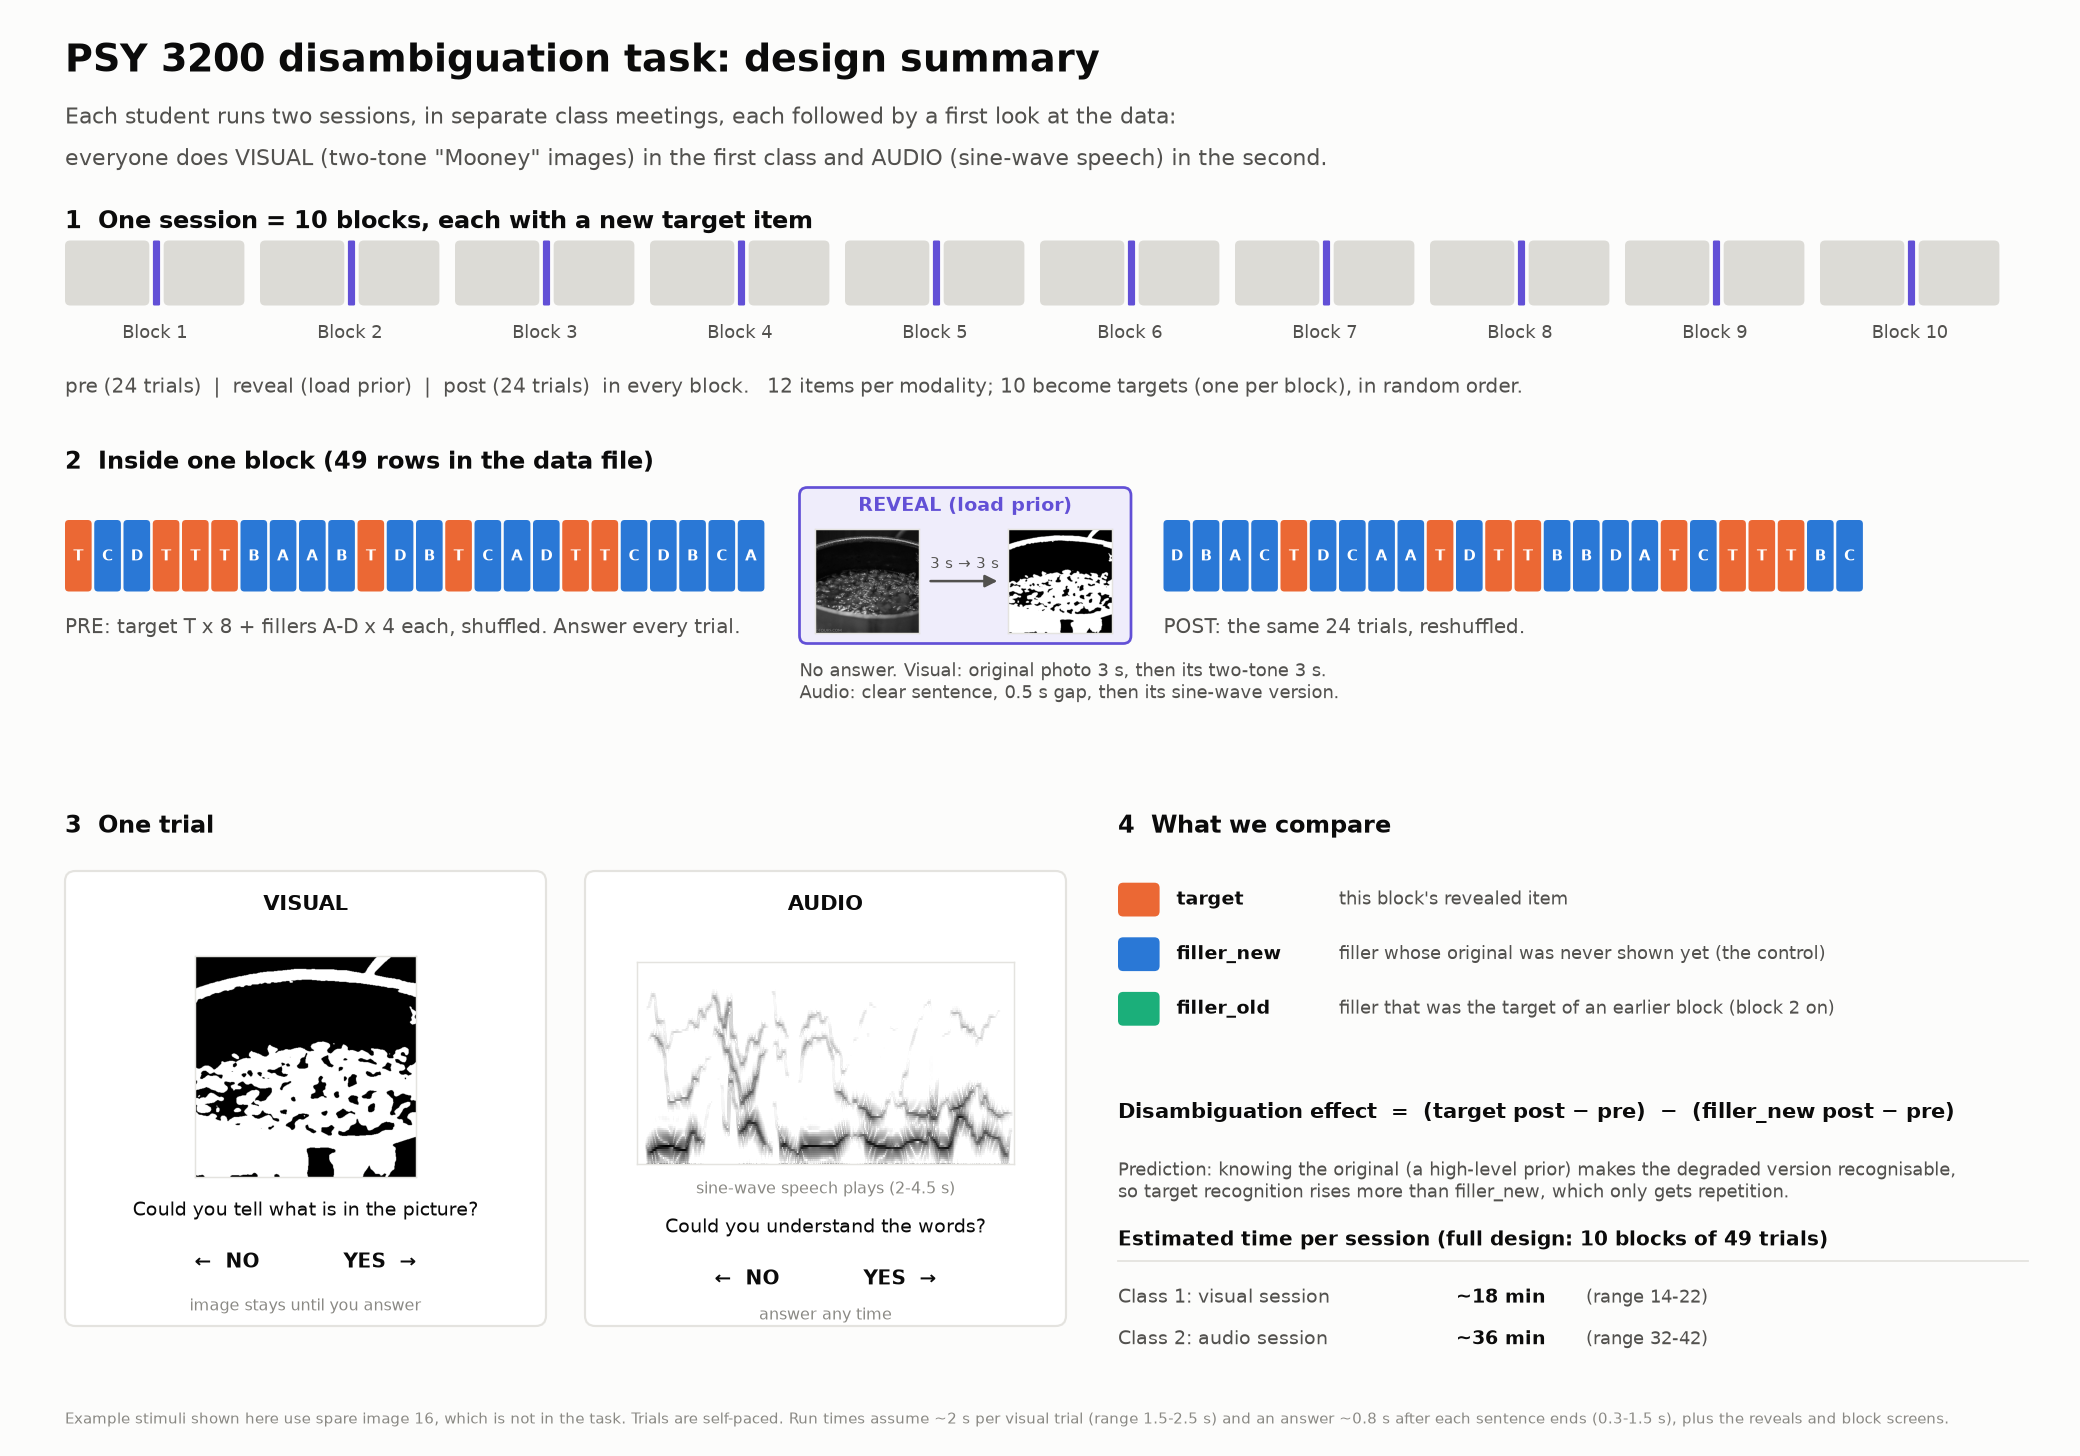
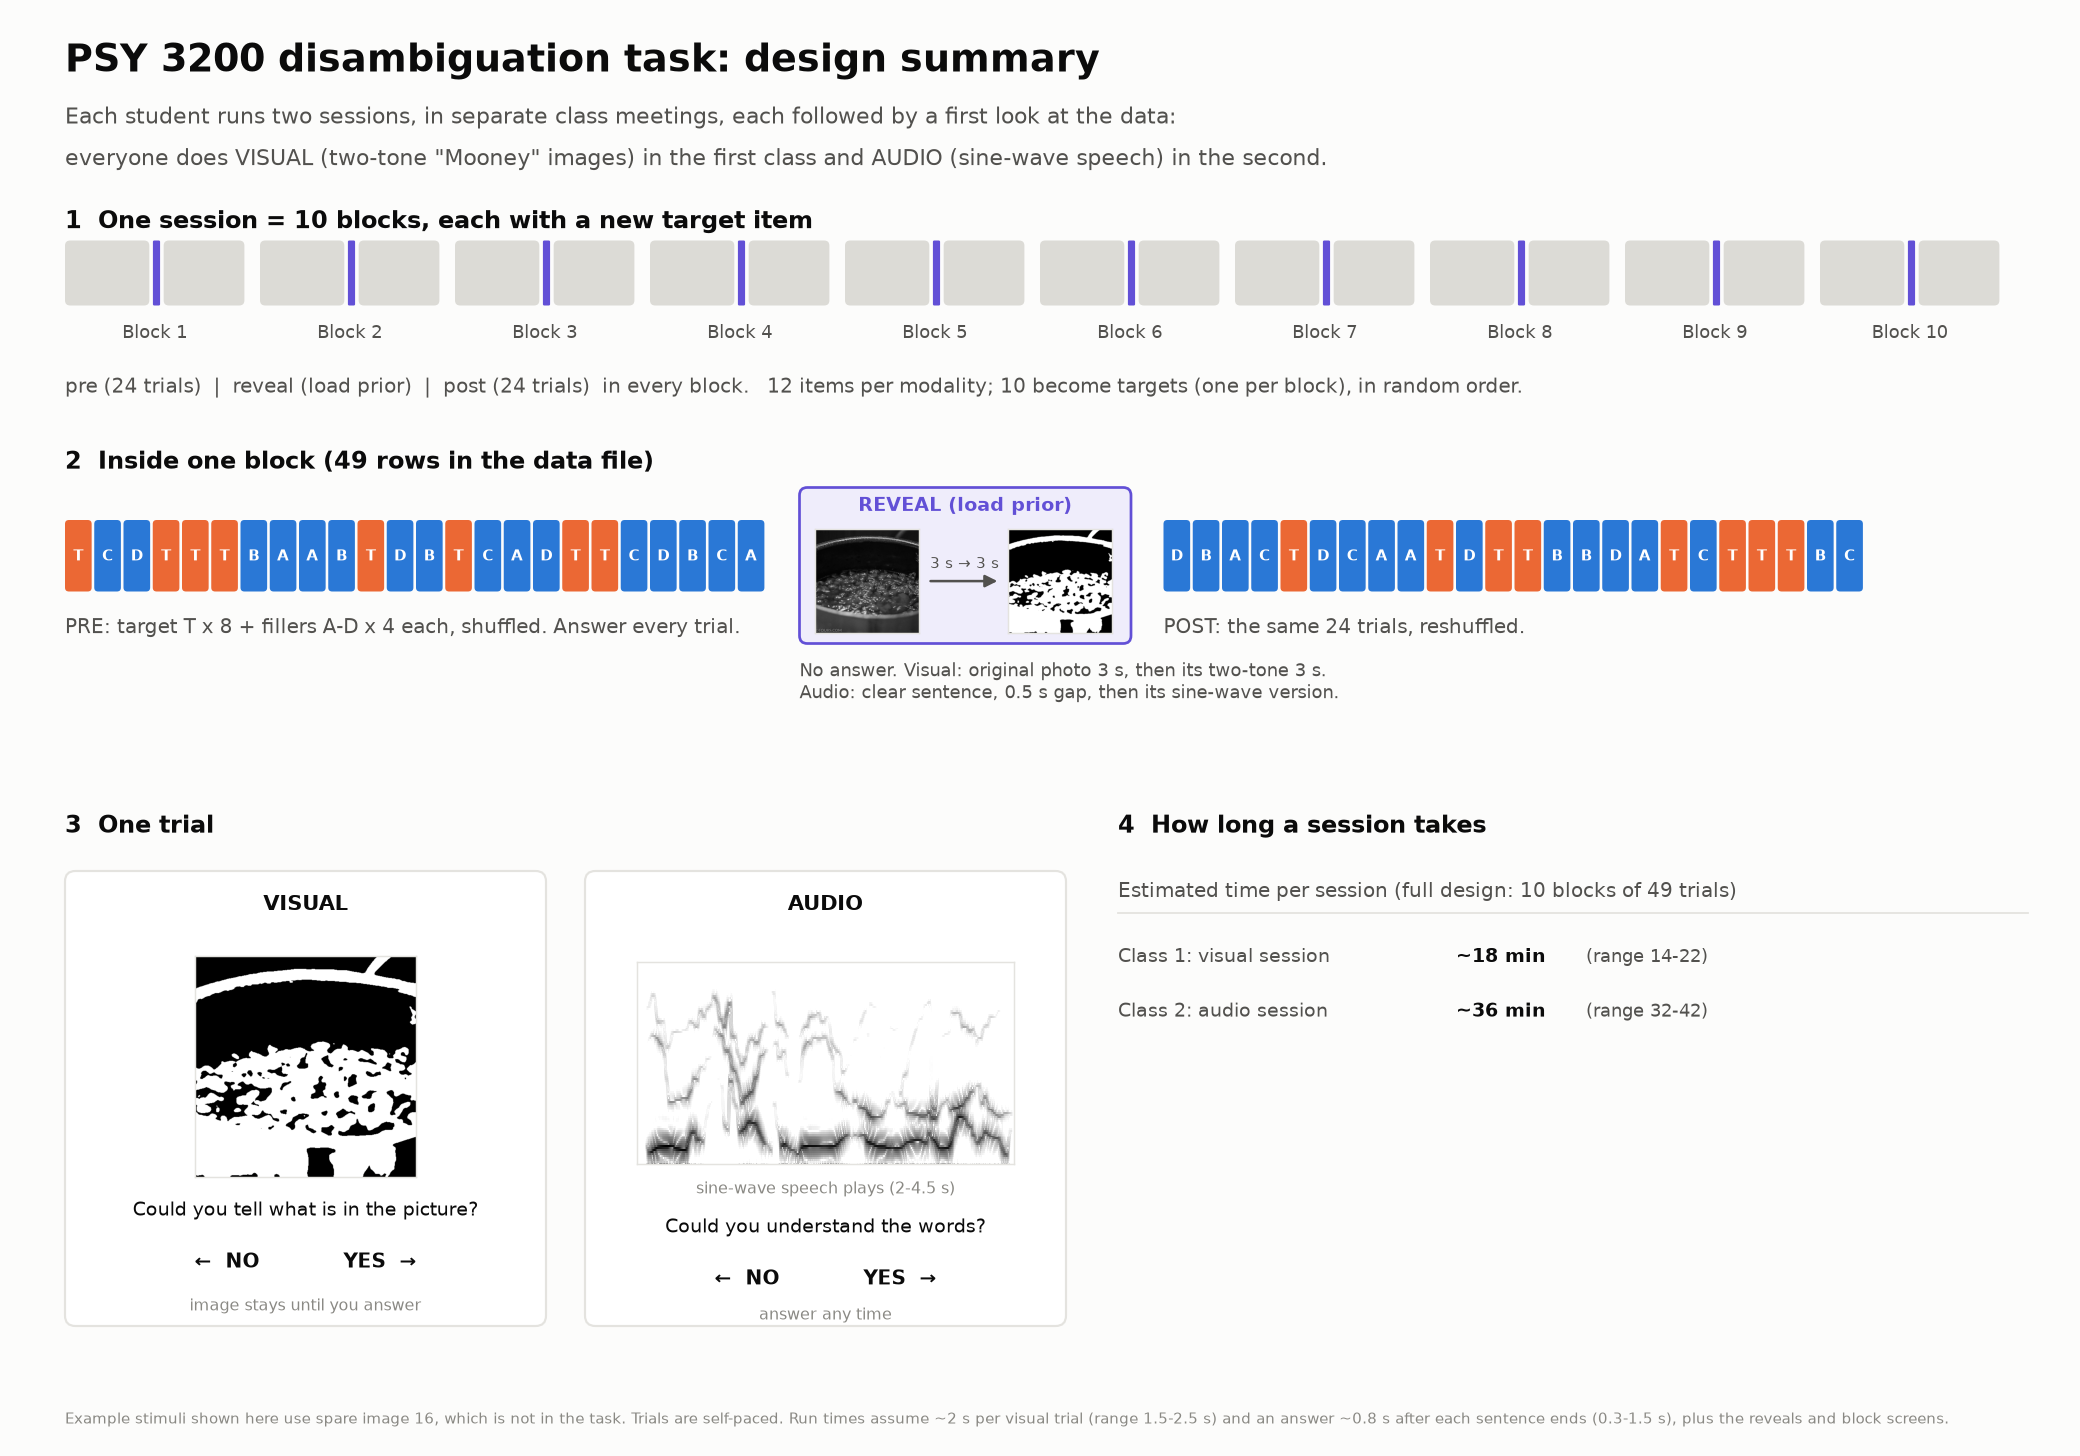
Take the planned comparison out of the design figure
Students design their own analysis, so the figure no longer shows which
conditions to compare, the disambiguation-effect formula or the prediction.
The run-time table moves into that space.

diff --git a/docs/make_design_figure.py b/docs/make_design_figure.py
@@ -164,28 +164,13 @@ def main():
     ax.text(6.35, 1.32, "←  NO            YES  →", ha="center", fontsize=11, color=INK, fontweight="bold")
     ax.text(6.35, 1.05, "answer any time", ha="center", fontsize=9, color=MUTED)
 
-    # 4. conditions + analysis
-    section(ax, 8.6, 4.75, "4  What we compare")
-    for k, (c, lab, desc) in enumerate([
-            (TARGET, "target", "this block's revealed item"),
-            (FILLER_NEW, "filler_new", "filler whose original was never shown yet (the control)"),
-            (FILLER_OLD, "filler_old", "filler that was the target of an earlier block (block 2 on)")]):
-        yy = 4.15 - k * 0.42
-        box(ax, 8.6, yy, 0.32, 0.26, c, r=0.04)
-        ax.text(9.05, yy + 0.13, lab, fontsize=10.5, color=INK, va="center", fontweight="bold")
-        ax.text(10.3, yy + 0.13, desc, fontsize=10, color=INK2, va="center")
-    ax.text(8.6, 2.6, "Disambiguation effect  =  (target post − pre)  −  (filler_new post − pre)",
-            fontsize=11.5, color=INK, fontweight="bold")
-    ax.text(8.6, 2.28, "Prediction: knowing the original (a high-level prior) makes the degraded version "
-            "recognisable,\nso target recognition rises more than filler_new, which only gets repetition.",
-            fontsize=10, color=INK2, va="top")
-
-    # 5. run time
-    ax.text(8.6, 1.62, "Estimated time per session (full design: 10 blocks of 49 trials)", fontsize=11,
-            color=INK, fontweight="bold")
-    ax.plot([8.6, 15.6], [1.5, 1.5], color=RULE, lw=1)
+    # 4. run time
+    section(ax, 8.6, 4.75, "4  How long a session takes")
+    ax.text(8.6, 4.3, "Estimated time per session (full design: 10 blocks of 49 trials)", fontsize=11,
+            color=INK2)
+    ax.plot([8.6, 15.6], [4.18, 4.18], color=RULE, lw=1)
     for k, (name, m, lo, hi) in enumerate(runtime_table()):
-        yy = 1.18 - k * 0.32
+        yy = 3.8 - k * 0.42
         ax.text(8.6, yy, f"Class {k + 1}: {name.lower()} session", fontsize=10.5, color=INK2)
         ax.text(11.2, yy, f"~{m:.0f} min", fontsize=10.5, color=INK, fontweight="bold")
         ax.text(12.2, yy, f"(range {lo:.0f}-{hi:.0f})", fontsize=10, color=INK2)
